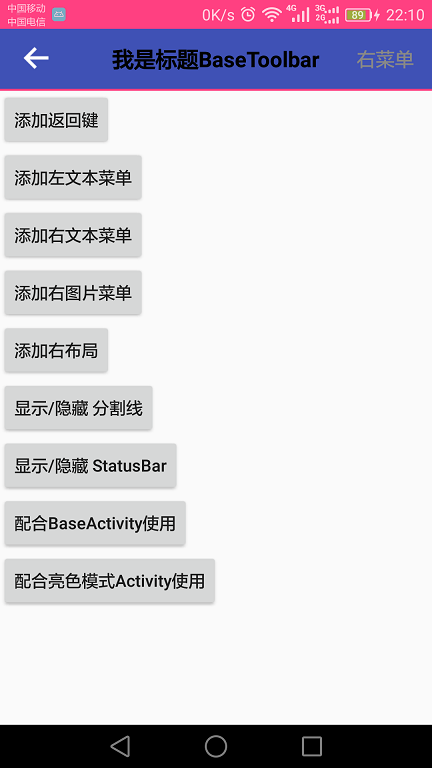
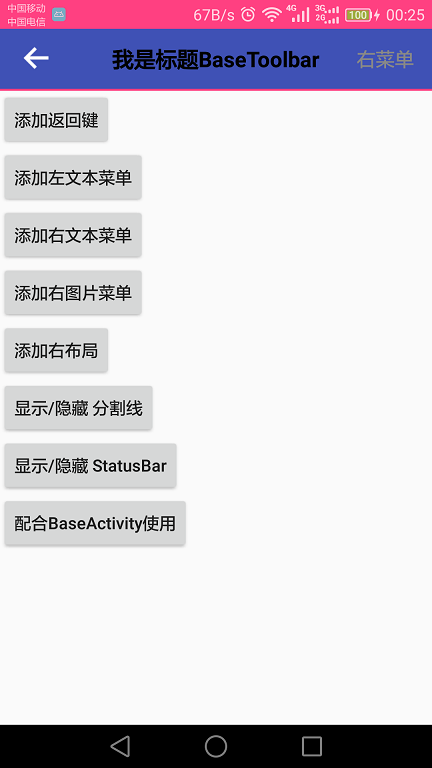
update README

diff --git a/app/src/main/java/com/mirkowu/basetoolbarsample/MainActivity.java b/app/src/main/java/com/mirkowu/basetoolbarsample/MainActivity.java
@@ -49,7 +49,6 @@ public class MainActivity extends AppCompatActivity implements View.OnClickListe
         findViewById(R.id.mBtnShowHideDivider).setOnClickListener(this);
         findViewById(R.id.mBtnShowHideStatusBar).setOnClickListener(this);
         findViewById(R.id.mBtnWithBase).setOnClickListener(this);
-        findViewById(R.id.mBtnWithLightMode).setOnClickListener(this);
     }
 
 
@@ -111,12 +110,7 @@ public class MainActivity extends AppCompatActivity implements View.OnClickListe
             case R.id.mBtnWithBase:
                 SampleActivity.start(this);
                 break;
-            case R.id.mBtnWithLightMode:
-                LightModeActivity.start(this);
-                break;
-
         }
-
 
     }
 

diff --git a/README.md b/README.md
@@ -24,9 +24,12 @@
 ```java
     //代码设置
     mToolbar.setTitle("我是标题BaseToolbar");//设置标题
-    mToolbar.setBackButton(R.mipmap.back);//这里简化设置返回键，点击调用onBackPress()
+    mToolbar.setBackButton(R.mipmap.back);//这里简化设置返回键，点击调用onBackPress() 
+    mToolbar.hideBackButton();//需要的时候还可以隐藏 
     mToolbar.setBottomDivider(Color.GRAY, 1);//设置底部分割线，此处高度单位为px
+    mToolbar.hideBottomDivider();//需要的时候还可以隐藏 
     mToolbar.setStatusBarColor(Color.TRANSPARENT);//需要的话可以设置状态栏颜色，原理为增加一个状态栏高度的View
+    mToolbar.hideStatusBar();//需要的时候还可以隐藏 
     mToolbar.setTitleTextColor(Color.BLACK);//设置标题颜色
     mToolbar.setSubTextColor(Color.GRAY);//设置菜单文本颜色
     //添加常用的菜单
@@ -60,10 +63,19 @@
       
     //还可搭配BaseActivity使用，更方便，详情见demo
 ```
+需要注意的是
+```java
+
+    //将toolbar设置为actionbar 
+    activity.setSupportActionBar(mBaseToolbar);
+    //要执行这步需保证项目使用的主题Theme为 NoActionBar系列，或者设置
+    <item name="windowActionBar">false</item>
+    <item name="windowNoTitle">true</item>
+```
+
 ### 截图
 ![](image/title.jpg)     
-![](image/main.png)          
-![](image/light_mode.png)         
+![](image/main.png)                 
 
 # proguard-rules
 ```java
